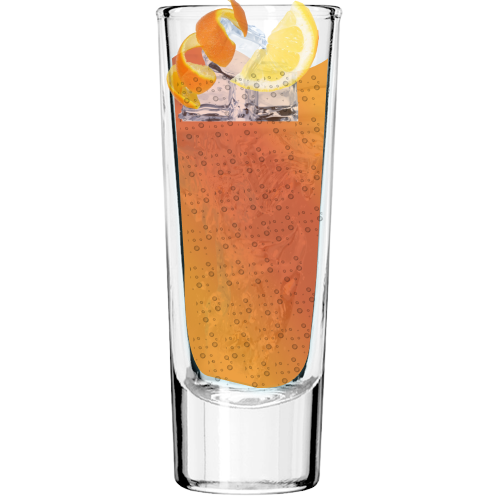
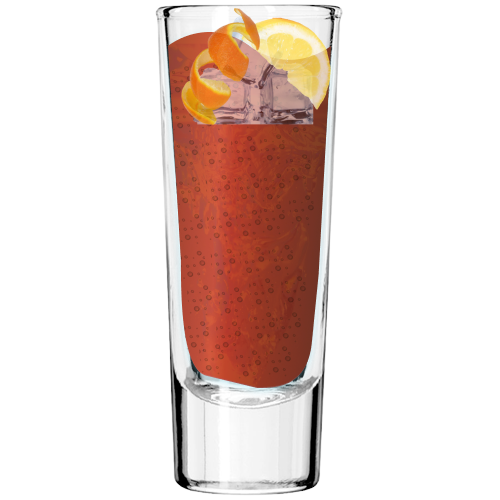
Revert "Janhvi"

Changed region(s): [[0.33, 0.0, 0.66, 0.78]]

diff --git a/src/App.js b/src/App.js
@@ -32,11 +32,11 @@ const images = {
   46: "images/image46.png",
   56: "images/image56.png",
   123: "images/image123.png",
-  125: "images/image125.png",
-  124: "images/image124.png",
-  126: "images/image126.png",
+  //done till  here
+  125: "images/image126.png",
+  124: "images/image123.png",
+  126: "images/image125.png",
   134: "images/image123.png",
- 
   135: "images/image135.png",
   136: "images/image136.png",
   145: "images/image146.png",
@@ -45,11 +45,11 @@ const images = {
   234: "images/image234.png",
   235: "images/image235.png",
   236: "images/image236.png",
-  245: "images/image245.png",
-  246: "images/image246.png",
+  245: "images/image235.png",
+  246: "images/image236.png",
   256: "images/image256.png",
-  345: "images/image235.png",
-  346: "images/image236.png",
+  345: "images/image345.png",
+  346: "images/image346.png",
   356: "images/image356.png",
   456: "images/image456.png",
   1234: "images/image1234.png",
@@ -65,14 +65,13 @@ const images = {
   2345: "images/image2345.png",
   2346: "images/image2346.png",
   2356: "images/image2356.png",
-  2456: "images/image2456.png",
-  3456: "images/image3456.png",
-  12345: "images/image12345.png",
-  12346: "images/image12346.png",
-  12356: "images/image12356.png",
-  12456: "images/image12456.png",
-  13456: "images/image12356.png",
-     //done till  here
+  2456: "images/image2356.png",
+  3456: "images/image2356.png",
+  12345: "images/image1245.png",
+  12346: "images/image1246.png",
+  12356: "images/image12561.png",
+  12456: "images/image12561.png",
+  13456: "images/image12561.png",
   23456: "images/image23456.png",
   123456: "images/image123456.png",
 };

diff --git a/src/components/Tryleft1.css b/src/components/Tryleft1.css
@@ -1,46 +1,35 @@
 @import url("https://fonts.googleapis.com/css2?family=Chakra+Petch:wght@600&family=Fjalla+One&family=Outfit&family=Permanent+Marker&family=Roboto:wght@100;400&display=swap");
-
-
 .diagonal{
-    padding-block: 10rem;
-  margin-top: 8%;
-  color: white;
-  text-transform: capitalize;
-  text-align: center;
-
+    position: relative;
+    isolation: isolate;
+    padding-block: 3rem;
+    margin-block: 3%;
+    color: white;
+    text-transform: capitalize;
+    height: 35%;
+    font-family: 'Chakra Petch', sans-serif;
 }
-.header-next1{
-  z-index: -5;
-  background-image: url("/public/images/footerBg.png");
-  -webkit-background-size: cover;
-  -moz-background-size: cover;
-  -o-background-size: cover;
-  background-size: cover;
-  height: 100vh;
-
+.diagonal::after{
+    content: '';
+    background-color: #9C102A;
+    position: absolute;
+    inset: 0;
+    transform: skewY(-7deg);
+    z-index: -1;
 }
 .message{
-  color: white;
+    color: white;
 }
 .message>a>button{
-  background-color: white;
+   background-color: white;
    color: #9C102A;
-  padding: 12px;
-  border-radius: 8px;
-  font-size: 15px;
+   padding: 12px;
+   border-radius: 8px;
+     font-size: 15px;
      border: 1px solid #9C102A;
      box-shadow: 0 0 0 2px #fff
 }
 .message>h4{
     font-family: 'Roboto Condensed', sans-serif;
-  font-size: 33px;
-padding: 10px;
-font-weight: 100;
-}
-@media screen and (max-height: 700px) {
-  .message>h4{
-  font-size: 25px;
-padding: 10px;
-font-weight: 100;
-}
+    font-size: 23px;
 }

diff --git a/src/components/Lose.jsx b/src/components/Lose.jsx
@@ -1,34 +1,35 @@
-import React, { Component } from "react";
+import React, { Component} from "react";
 import HeaderElement from "./header";
 import "./Win.css";
 
 class Win extends Component {
-  buttonClick = () => {
-    localStorage.setItem("attempts", 3);
-    window.location.href = "./App";
+  buttonClick=()=>{
+    localStorage.setItem("attempts",3);
+    window.location.href="./App";
   };
-  render() {
-    return (
-      <div className="lose">
-        <HeaderElement />
+render(){
+  
+  return (
+    <div className="lose">
+      <HeaderElement/>
+      <br/>
+      <br/>
+      <div className="back">
+        <h3>
+          WELL, THAT COULD HAVE BEEN A DRINK.
+          <br /> BUT DEFINETELY NOT AN
+        </h3>
         <br />
-        <br />
-        <div classname="addBg">
-          <div className="back">
-            <h3>
-              WELL, THAT COULD HAVE BEEN A DRINK.
-              <br /> BUT DEFINETELY NOT AN
-            </h3>
-            <br />
-            <div className="ap">
-              <h1>AMERICAN PRIDE HIGHBALL</h1>
-            </div>
-            <br />
-            <button onClick={this.buttonClick}>TRY POURING AGAIN</button>
-          </div>
+        <div className="ap">
+        <h1>AMERICAN PRIDE HIGHBALL</h1>
         </div>
+        
+        <br />
+          <button onClick={this.buttonClick}>TRY POURING AGAIN</button>
+
       </div>
-    );
-  }
+    </div>
+  );
+};
 }
 export default Win;

diff --git a/src/components/Win.css b/src/components/Win.css
@@ -7,9 +7,6 @@
     line-height: 0px;
     padding-top: 0px;
 }
-.header-top>h1{
-    transform: rotate(-5deg);
-}
 .addBg{
   z-index: -5;
   background-image: url("/public/images/footerBg.png");
@@ -17,7 +14,6 @@
   -moz-background-size: cover;
   -o-background-size: cover;
   background-size: cover;
-  height: 64vh;
 }
 
 .next{
@@ -50,12 +46,10 @@
   color: white;
   line-height: 100%;
   font-size: 25px;
-  
 }
 .right h5{
   font-family: 'Roboto Condensed', sans-serif;
   font-stretch: ultra-condensed;
-  font-weight: 100;
 }
 .right button {
   background-color: white;
@@ -68,17 +62,16 @@
 }
 .bottom1{
   display: flex;
+
   flex-direction: row;
   justify-content: flex-start;
   align-items: flex-start;
-  
 }
 
 .text2{
   /* justify-content: flex-end;
   align-items: flex-end; */
   margin-right: 10px;
-  padding-top: 50px;
  
 }
 .text2>h4{
@@ -86,19 +79,17 @@
   text-align: right;
   font-family: 'Roboto Condensed', sans-serif;
   font-size: 20px;
-  font-weight: 100;
   line-height: 110%;
 }
 .text2>h2{
    text-align: right;
-   font-family: 'Roboto', sans-serif;
-   font-size: 30px;
+   font-family: 'Merriweather', serif;
+   font-size: 25px;
 }
 .endd>h6{
   text-align: center;
   font-size: 17px;
   padding-inline: 8px;
-  font-weight: 100;
 }
 #mid {
   margin: 5%;

diff --git a/src/components/Lose.css b/src/components/Lose.css
@@ -12,38 +12,36 @@
       box-shadow: 0 0 0 2px #fff
 }
 .back{
+    
     padding: 6%;
+    padding-bottom: 63%;
     color: white;
     font-family: 'Roboto Condensed', sans-serif;
     line-height: 200%;
-    margin-top: 7%;
+    position: relative;
+    isolation: isolate;
+    padding-block: 3rem;
+    margin-block: 3%;
     color: white;
     text-transform: capitalize;
+    height: 35%;
     font-family: 'Roboto Condensed', sans-serif;
     font-size: 17px;
-    z-index: -5;
-    background-image: url("/public/images/footerBg.png");
-    -webkit-background-size: cover;
-    -moz-background-size: cover;
-    -o-background-size: cover;
-    background-size: cover;
-    position: absolute;
-    height:100vh;
-    text-align: center;
-  
-}
 
+}
+.back::after{
+    content: '';
+    background-color: #9C102A;
+    position: absolute;
+    inset: 0;
+    transform: skewY(-7deg);
+    z-index: -1;
+}
 .back>h1{
     color: white;
-   
 }
-.back>h3{
-    margin-top: 120px;
-    font-weight: 100;
-    font-size: larger;
-}
+
 .ap>h1{
 color: white;
 line-height: 100%;
-font-family: 'Roboto', sans-serif;
 }

diff --git a/src/index.js b/src/index.js
@@ -18,8 +18,8 @@ createRoot(document.getElementById('root')).render(
           <Route path="/App" element={<App/>}/>
           <Route path="/Win" element={<Win/>}/>
           <Route path="/Lose" element={<Lose/>}/>
-          <Route path="/Try1left" element={<Try1left text="OH... THIS IS YOUR LAST ATTEMPT TO WIN YOURSELF A RC AMERICAN PRIDE HIGHBALL"/>}/>
-          <Route path="/Try2left" element={<Try1left text="GREAT! YOU HAVE TWO MORE ATTEMPTS TO WIN YOURSELF A COMPLEMENTARY RC AMERICAN PRIDE HIGHBALLl"/>}/>
+          <Route path="/Try1left" element={<Try1left text="Oh! This is your last attempt to win yourself a RC American Pride Highball"/>}/>
+          <Route path="/Try2left" element={<Try1left text="Great! You have two more attempts to win yourself a complementary RC American Pride Highball"/>}/>
         </Routes>
    
   </BrowserRouter>

diff --git a/public/index.html b/public/index.html
@@ -5,7 +5,9 @@
   <meta charset="utf-8" />
   <meta name="viewport" content="width=device-width, initial-scale=1, shrink-to-fit=no" />
   <meta name="theme-color" content="#000000" />
-  <link href="https://fonts.googleapis.com/css2?family=Roboto:wght@900&display=swap" rel="stylesheet">
+  <link
+    href="https://fonts.googleapis.com/css2?family=Merriweather:wght@900&family=Roboto+Condensed:wght@300&display=swap"
+    rel="stylesheet">
   <link rel="stylesheet" href="https://use.typekit.net/xzl4xhw.css" />
   <link rel="preconnect" href="https://fonts.googleapis.com">
   <link rel="preconnect" href="https://fonts.gstatic.com" crossorigin>

diff --git a/src/components/Try1left.js b/src/components/Try1left.js
@@ -7,8 +7,13 @@ export default class Try1left extends Component {
     return (
       <div className="main-try">
         <HeaderElement />
-        <div className="header-next1">
-         
+        <div className="header-next">
+          <h3>MAKE YOURSELF AN AMERICAN PRIDE HIGHBALL.</h3>
+          <h3>
+            <i>GRAB A COMPLIMENTARY ONE AT THE BAR!</i>
+          </h3>
+          <br />
+          <br />
          
             <div className="diagonal">
               <div className="message">

diff --git a/src/components/Win.jsx b/src/components/Win.jsx
@@ -73,7 +73,8 @@ const Lose = () => {
             </div>
             <div className="endd">
               <h6>
-              A maximum of five complimentary Highball drink per participant can be availed through this offer
+                A maximun of one complimentary Highball drink per participant
+                can be availed through this offer
               </h6>
 
             </div>

diff --git a/src/components/Landing.css b/src/components/Landing.css
@@ -125,7 +125,6 @@ input[type="number"]:focus {
   font-family: 'Roboto Condensed', sans-serif;
   font-stretch: 'ultra-condensed';
   font-size: 18px;
-  font-weight: 100;
 }
 input[type="checkbox"] {
   border-radius: 15px;
